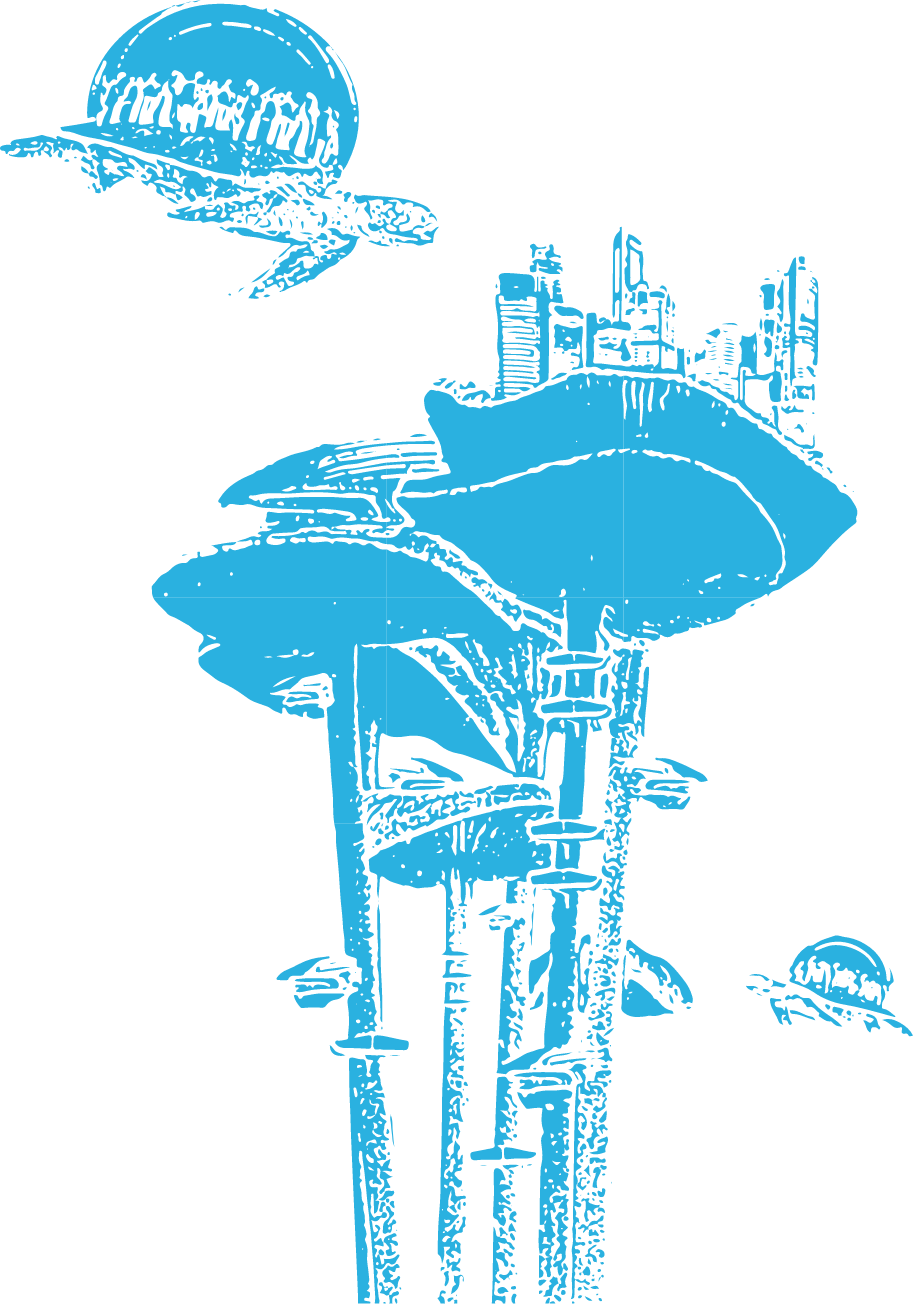
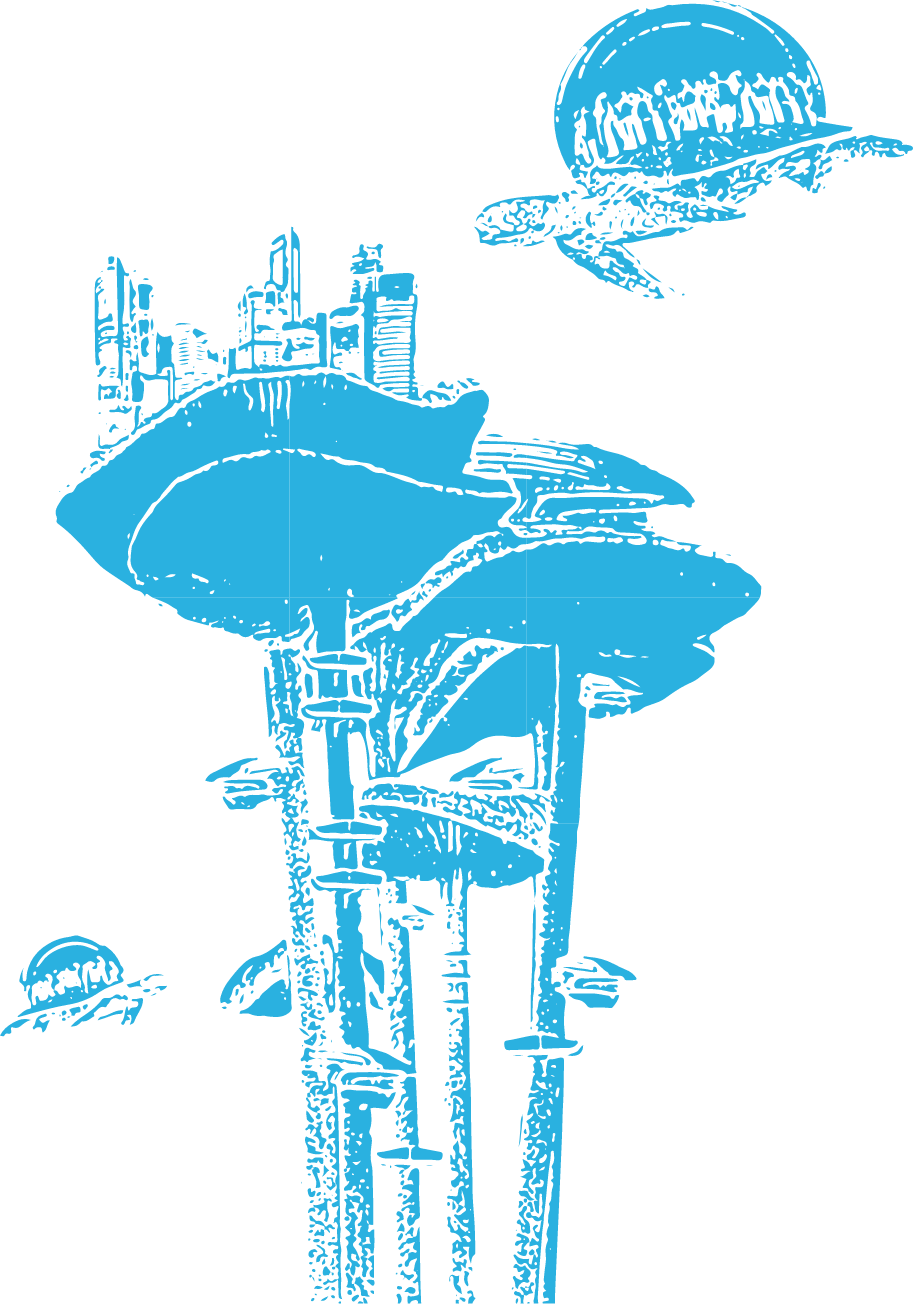
fixed front page watermarks:

Changed region(s): [[0.0, 0.0, 1.0, 1.0], [0.8271, 0.7055, 1.0, 0.7975], [0.0, 0.7055, 0.1838, 0.7975]]

diff --git a/hugo/solarpunkXR/themes/blank/static/css/style.css b/hugo/solarpunkXR/themes/blank/static/css/style.css
@@ -86,12 +86,11 @@
     --font-family-fucxedcaps-regular: "FUCXEDCAPS-Regular", Helvetica;
   }
 
-
-body {
-    margin: 0;
+  html, body {
+    height: 100%; width: 100%;
+    padding: 0; margin: 0;
     font-family: var(--font-family-crimson_text);
-    background-color: var(--sky-blue);
-  }
+}
 
 
 main {
@@ -344,10 +343,11 @@ p {
 /* 
   FRONT PAGE  */
 #front-container {
-  background-color: var(--sky-blue);
-    margin-left: 5%;
-    margin-right: auto;
-    color: var(--festival)
+  /* background-color: var(--sky-blue); */
+
+  margin-left: 5%;
+  margin-right: auto;
+  color: var(--festival)
   
 
   }

diff --git a/hugo/solarpunkXR/themes/blank/layouts/index.html b/hugo/solarpunkXR/themes/blank/layouts/index.html
@@ -12,9 +12,17 @@
       <div class="column">
         <img src="/images/front.png" class="front-page-img">
       </div>
-      <div class="column">
+      <!-- <div class="column">
         <img src="/images/turtle-blue-only.png" class="front-page-img">
-      </div>
+      </div> -->
    </div>
   </div>
+
+  <style>
+    body{
+      background: url(/images/turtle-blue-both.png) left bottom no-repeat, var(--sky-blue);
+      background-size: 100vh;  
+    }
+    </style>
 {{ end }}
+
